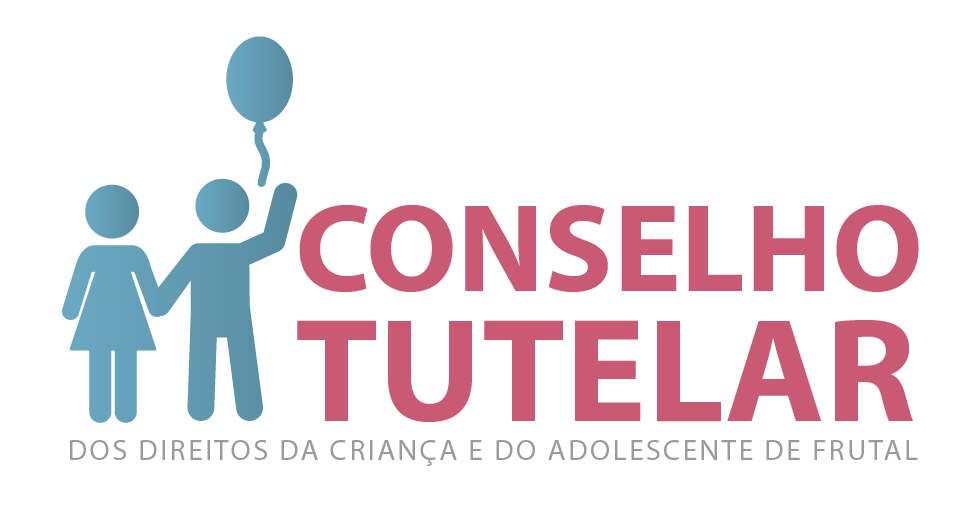
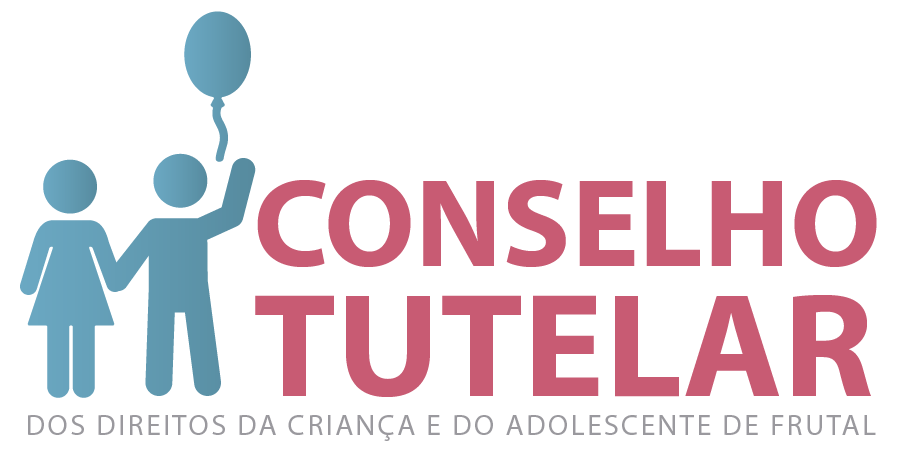
Pequenas alterações no layout

Changed region(s): [[0.0, 0.0, 0.9846, 0.9666], [0.6154, 0.4053, 0.6462, 0.4365], [0.5846, 0.3742, 0.6154, 0.4053]]

diff --git a/ConselhoTutelar/src/view/PrincipalView.java b/ConselhoTutelar/src/view/PrincipalView.java
@@ -34,38 +34,48 @@ public class PrincipalView extends javax.swing.JFrame {
         mnuRequerente = new javax.swing.JMenuItem();
         mnuConselheiro = new javax.swing.JMenuItem();
         mnuDireitos = new javax.swing.JMenuItem();
+        jSeparator1 = new javax.swing.JPopupMenu.Separator();
         mnuSair = new javax.swing.JMenu();
 
         jMenuItem1.setText("jMenuItem1");
 
         setDefaultCloseOperation(javax.swing.WindowConstants.EXIT_ON_CLOSE);
         setTitle("Conselho Tutelar Frutal");
+        setPreferredSize(new java.awt.Dimension(1024, 768));
+        getContentPane().setLayout(null);
 
         jLabel1.setToolTipText("");
+        getContentPane().add(jLabel1);
+        jLabel1.setBounds(0, 357, 0, 0);
 
         jLabel2.setIcon(new javax.swing.ImageIcon(getClass().getResource("/view/imagem/conslhotutelar.png"))); // NOI18N
-        jLabel2.setLabelFor(pnl);
 
         javax.swing.GroupLayout pnlLayout = new javax.swing.GroupLayout(pnl);
         pnl.setLayout(pnlLayout);
         pnlLayout.setHorizontalGroup(
             pnlLayout.createParallelGroup(javax.swing.GroupLayout.Alignment.LEADING)
             .addGroup(javax.swing.GroupLayout.Alignment.TRAILING, pnlLayout.createSequentialGroup()
-                .addGap(0, 613, Short.MAX_VALUE)
-                .addComponent(jLabel2, javax.swing.GroupLayout.PREFERRED_SIZE, 939, javax.swing.GroupLayout.PREFERRED_SIZE))
+                .addContainerGap(478, Short.MAX_VALUE)
+                .addComponent(jLabel2)
+                .addGap(22, 22, 22))
         );
         pnlLayout.setVerticalGroup(
             pnlLayout.createParallelGroup(javax.swing.GroupLayout.Alignment.LEADING)
-            .addGroup(pnlLayout.createSequentialGroup()
-                .addGap(193, 193, 193)
+            .addGroup(javax.swing.GroupLayout.Alignment.TRAILING, pnlLayout.createSequentialGroup()
+                .addContainerGap(184, Short.MAX_VALUE)
                 .addComponent(jLabel2)
-                .addContainerGap(897, Short.MAX_VALUE))
+                .addGap(77, 77, 77))
         );
 
+        getContentPane().add(pnl);
+        pnl.setBounds(0, 0, 1410, 710);
+
+        jMenu1.setIcon(new javax.swing.ImageIcon(getClass().getResource("/view/imagem/folder-open.png"))); // NOI18N
         jMenu1.setText("Arquivo");
         jMenu1.setFont(new java.awt.Font("Trebuchet MS", 0, 18)); // NOI18N
 
         mnuRequerente.setFont(new java.awt.Font("Trebuchet MS", 0, 14)); // NOI18N
+        mnuRequerente.setIcon(new javax.swing.ImageIcon(getClass().getResource("/view/imagem/4.png"))); // NOI18N
         mnuRequerente.setText("Requerente");
         mnuRequerente.addActionListener(new java.awt.event.ActionListener() {
             public void actionPerformed(java.awt.event.ActionEvent evt) {
@@ -75,6 +85,7 @@ public class PrincipalView extends javax.swing.JFrame {
         jMenu1.add(mnuRequerente);
 
         mnuConselheiro.setFont(new java.awt.Font("Trebuchet MS", 0, 14)); // NOI18N
+        mnuConselheiro.setIcon(new javax.swing.ImageIcon(getClass().getResource("/view/imagem/3.png"))); // NOI18N
         mnuConselheiro.setText("Conselheiro");
         mnuConselheiro.addActionListener(new java.awt.event.ActionListener() {
             public void actionPerformed(java.awt.event.ActionEvent evt) {
@@ -84,6 +95,7 @@ public class PrincipalView extends javax.swing.JFrame {
         jMenu1.add(mnuConselheiro);
 
         mnuDireitos.setFont(new java.awt.Font("Trebuchet MS", 0, 14)); // NOI18N
+        mnuDireitos.setIcon(new javax.swing.ImageIcon(getClass().getResource("/view/imagem/1.png"))); // NOI18N
         mnuDireitos.setText("Direitos");
         mnuDireitos.addActionListener(new java.awt.event.ActionListener() {
             public void actionPerformed(java.awt.event.ActionEvent evt) {
@@ -91,9 +103,11 @@ public class PrincipalView extends javax.swing.JFrame {
             }
         });
         jMenu1.add(mnuDireitos);
+        jMenu1.add(jSeparator1);
 
         jMenuBar1.add(jMenu1);
 
+        mnuSair.setIcon(new javax.swing.ImageIcon(getClass().getResource("/view/imagem/5.png"))); // NOI18N
         mnuSair.setText("Sair");
         mnuSair.setFont(new java.awt.Font("Trebuchet MS", 0, 18)); // NOI18N
         mnuSair.addMouseListener(new java.awt.event.MouseAdapter() {
@@ -104,24 +118,6 @@ public class PrincipalView extends javax.swing.JFrame {
         jMenuBar1.add(mnuSair);
 
         setJMenuBar(jMenuBar1);
-
-        javax.swing.GroupLayout layout = new javax.swing.GroupLayout(getContentPane());
-        getContentPane().setLayout(layout);
-        layout.setHorizontalGroup(
-            layout.createParallelGroup(javax.swing.GroupLayout.Alignment.TRAILING)
-            .addGroup(layout.createSequentialGroup()
-                .addContainerGap(javax.swing.GroupLayout.DEFAULT_SIZE, Short.MAX_VALUE)
-                .addComponent(jLabel1)
-                .addGap(1105, 1105, 1105))
-            .addComponent(pnl, javax.swing.GroupLayout.DEFAULT_SIZE, javax.swing.GroupLayout.DEFAULT_SIZE, Short.MAX_VALUE)
-        );
-        layout.setVerticalGroup(
-            layout.createParallelGroup(javax.swing.GroupLayout.Alignment.LEADING)
-            .addGroup(layout.createSequentialGroup()
-                .addComponent(pnl, javax.swing.GroupLayout.PREFERRED_SIZE, javax.swing.GroupLayout.DEFAULT_SIZE, javax.swing.GroupLayout.PREFERRED_SIZE)
-                .addGap(83, 83, 83)
-                .addComponent(jLabel1))
-        );
 
         pack();
     }// </editor-fold>//GEN-END:initComponents
@@ -162,6 +158,7 @@ public class PrincipalView extends javax.swing.JFrame {
     private javax.swing.JMenu jMenu1;
     private javax.swing.JMenuBar jMenuBar1;
     private javax.swing.JMenuItem jMenuItem1;
+    private javax.swing.JPopupMenu.Separator jSeparator1;
     private javax.swing.JMenuItem mnuConselheiro;
     private javax.swing.JMenuItem mnuDireitos;
     private javax.swing.JMenuItem mnuRequerente;

diff --git a/ConselhoTutelar/src/view/ConselheiroView.java b/ConselhoTutelar/src/view/ConselheiroView.java
@@ -58,6 +58,7 @@ public class ConselheiroView extends javax.swing.JInternalFrame {
         txtSenha = new javax.swing.JPasswordField();
 
         setClosable(true);
+        setTitle("Conselheiro");
 
         jPanel1.setBorder(javax.swing.BorderFactory.createTitledBorder("Informações Pessoais"));
 
@@ -288,7 +289,7 @@ public class ConselheiroView extends javax.swing.JInternalFrame {
                 .addGap(18, 18, 18)
                 .addGroup(layout.createParallelGroup(javax.swing.GroupLayout.Alignment.LEADING, false)
                     .addComponent(jScrollPane3, javax.swing.GroupLayout.DEFAULT_SIZE, 580, Short.MAX_VALUE)
-                    .addComponent(jPanel3, javax.swing.GroupLayout.PREFERRED_SIZE, 0, Short.MAX_VALUE))
+                    .addComponent(jPanel3, javax.swing.GroupLayout.PREFERRED_SIZE, 580, Short.MAX_VALUE))
                 .addContainerGap(javax.swing.GroupLayout.DEFAULT_SIZE, Short.MAX_VALUE))
             .addGroup(javax.swing.GroupLayout.Alignment.TRAILING, layout.createSequentialGroup()
                 .addContainerGap(javax.swing.GroupLayout.DEFAULT_SIZE, Short.MAX_VALUE)

diff --git a/ConselhoTutelar/src/view/RequerenteView.java b/ConselhoTutelar/src/view/RequerenteView.java
@@ -85,6 +85,7 @@ public class RequerenteView extends javax.swing.JInternalFrame {
         jLabel4 = new javax.swing.JLabel();
 
         setClosable(true);
+        setTitle("Requerente");
 
         btnNovo.setText("Novo");
         btnNovo.addActionListener(new java.awt.event.ActionListener() {
@@ -680,6 +681,7 @@ public class RequerenteView extends javax.swing.JInternalFrame {
         txtEndereco.setText("");
         txtCelular.setText("");
         txtBairro.setText("");
+        txtNumero.setText("");
         txtCidade.setText("");
         txtEstado.setText("");
         txtTel1.setText("");

diff --git a/ConselhoTutelar/src/view/DireitosView.java b/ConselhoTutelar/src/view/DireitosView.java
@@ -50,6 +50,7 @@ public class DireitosView extends javax.swing.JInternalFrame {
         btnSalvar = new javax.swing.JButton();
 
         setClosable(true);
+        setTitle("Direitos");
 
         btnAlterar.setText("Alterar");
         btnAlterar.setEnabled(false);
